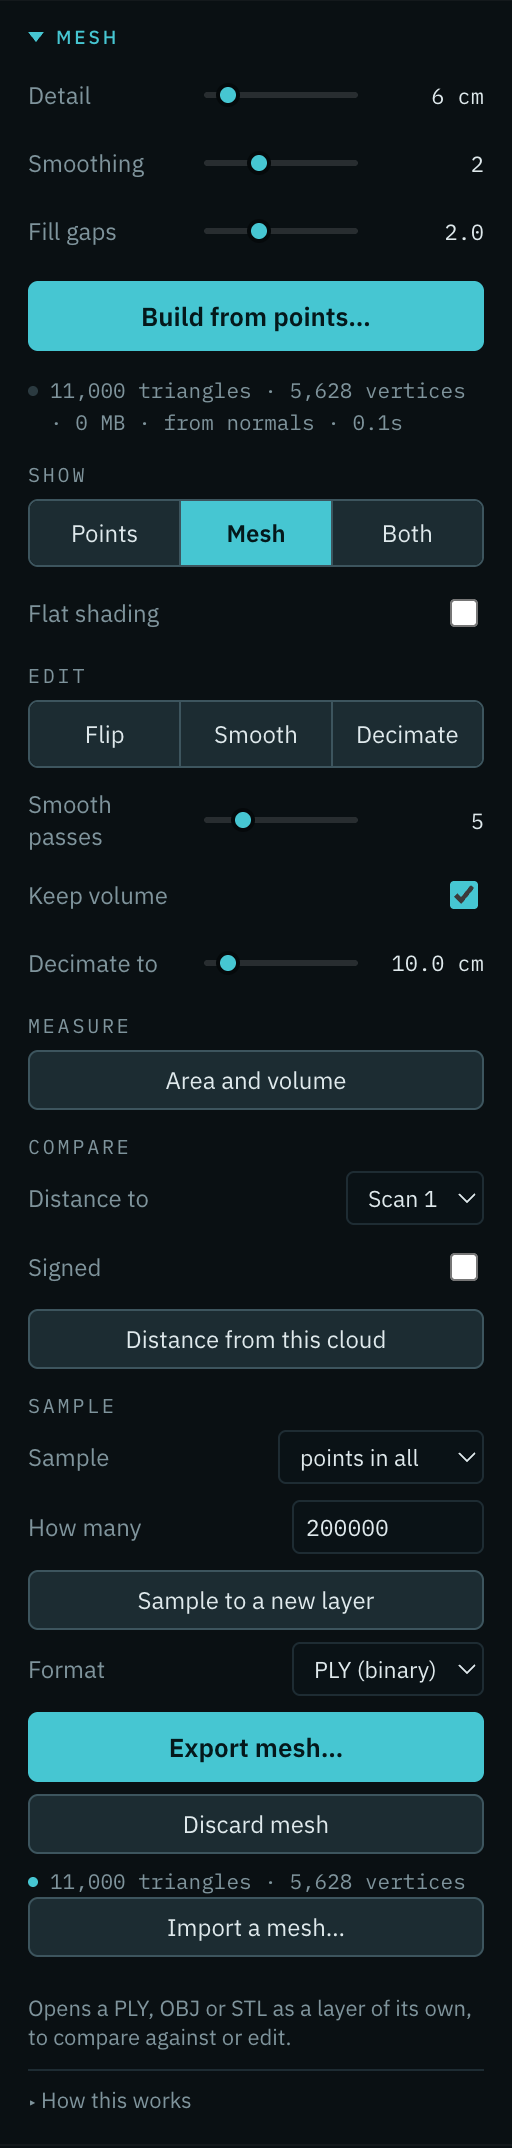
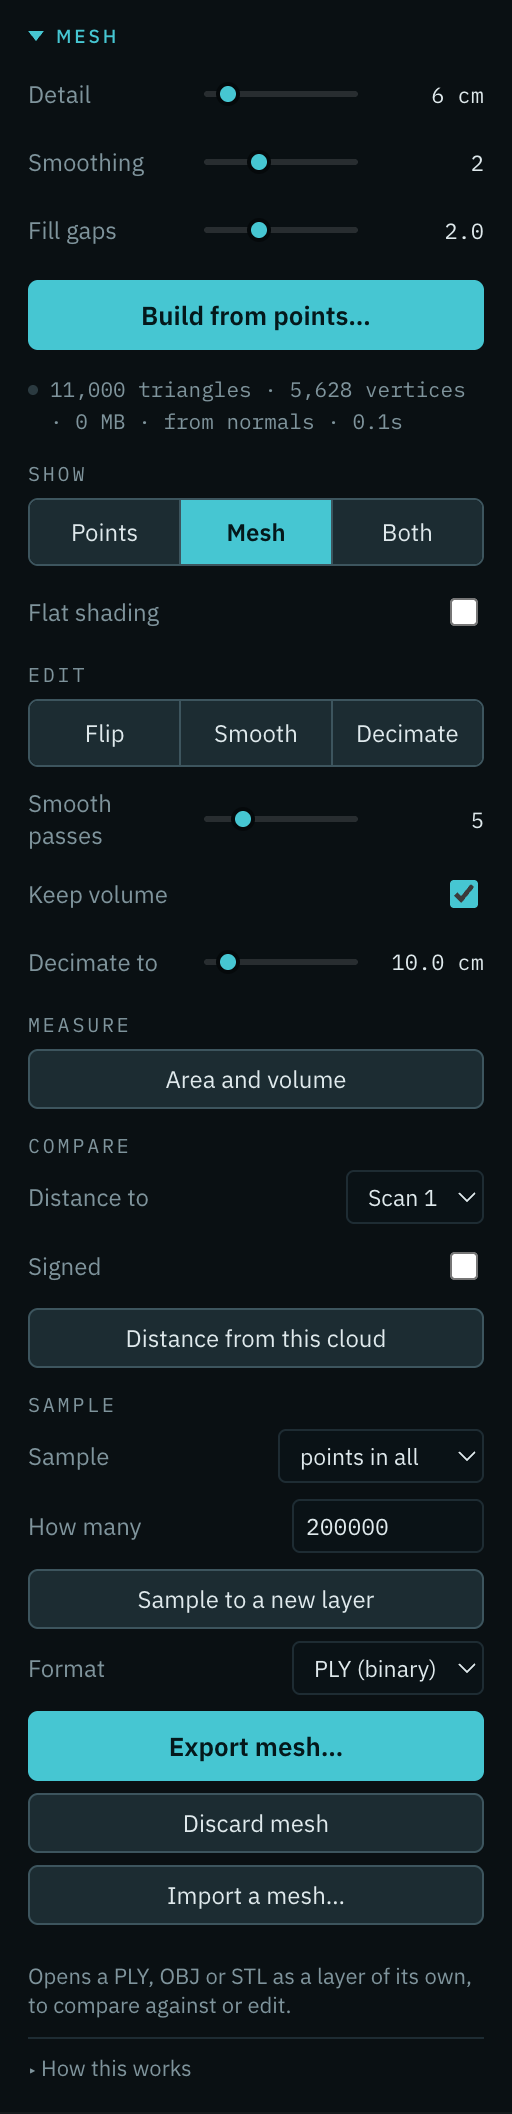
Say the triangle count once
The build result was printed under Build from points and again just above
Import a mesh, a few centimetres apart. Two lines reading as two facts when
there was one.

The upper line owns the build result. The lower one now reports only what is
different: what the last mesh operation did, or where an imported mesh came
from, and it is hidden when it has nothing to say. A build clears it.

Every write to it goes through one meshNote helper, because writing the text
directly left the line hidden with something to say, which is how the first
attempt at this broke.

drive-mesh gained three checks: the build result is on the line under Build,
it is not repeated further down, and a measurement does write that line and
show it.

diff --git a/src/main.ts b/src/main.ts
@@ -2739,7 +2739,7 @@ async function buildMesh(opts: { voxel?: number; smooth?: number; trunc?: number
     const st0 = done.stats;
     viewer.setMesh(meshData, builtWith);
     document.body.classList.toggle('has-mesh', viewer.anyMesh);
-    $('v-meshinfo').textContent = 'no mesh yet';      // so refreshMeshUI rewrites it
+    meshNote('');                                     // the build result is the line above
     refreshMeshUI();
     dirtyMark.surface = done.stats.triangles || 0;
     meshInfo = {
@@ -2766,7 +2766,7 @@ $('k-mclear').addEventListener('click', () => {
   dirtyMark.surface = 0; refreshMeshUI(); renderLayers();
   sfName = ''; dirtyMark.field = ''; sfStats = null; document.body.classList.remove('has-sf', 'sf-filtering');
   ($('k-color-sf') as HTMLOptionElement).disabled = true;
-  setDisplay('points'); $('v-mesh').textContent = '—'; $('v-meshinfo').textContent = 'no mesh yet';
+  setDisplay('points'); $('v-mesh').textContent = '—'; meshNote('');
 });
 
 
@@ -2779,6 +2779,13 @@ $('k-mclear').addEventListener('click', () => {
 let meshFile = '';
 const meshSettings = { iterations: 5, taubin: true, cellCm: 10, sampleMode: 'count' as 'count' | 'density', sampleVal: 200000 };
 
+/** Write the mesh line, and show it. Only `refreshMeshUI` hides it, and only when it has
+ *  nothing to say, so every other writer goes through here or its text never appears. */
+function meshNote(text: string, kind: '' | 'ok' | 'err' = '') {
+  const el = $('v-meshinfo');
+  el.textContent = text;
+  el.className = 'statusline' + (kind ? ' ' + kind : '') + (text.trim() ? '' : ' hidden');
+}
 /** Every layer that has triangles. */
 function meshEntities(): Entity[] { return viewer.entities.filter(e => e.mesh.hasMesh); }
 /** The world matrix the active layer's triangles are drawn through. */
@@ -2797,15 +2804,12 @@ function refreshMeshUI() {
   const have = !!meshData?.idx.length;
   for (const id of ['k-meshmeasure', 'k-meshflip', 'k-meshsmooth', 'k-meshdecim', 'k-meshsample', 'k-meshsave'])
     ($(id) as HTMLButtonElement).disabled = !have;
+  // This line reports the last thing done to a mesh, and where an imported one came from. It
+  // does not repeat the triangle count: that is the build line under Build from points, and
+  // the same numbers twice a few centimetres apart is not two pieces of information.
   const info = $('v-meshinfo');
-  if (!have && !list.length) { info.textContent = 'no mesh yet'; info.className = 'statusline'; }
-  else if (have && /^no mesh yet$/.test(info.textContent ?? '')) {
-    // a mesh has appeared since this line was last written, so say what it is rather than
-    // leaving the placeholder contradicting the controls that just became available
-    const st = meshData!;
-    info.textContent = `${fmt(st.idx.length / 3)} triangles · ${fmt(st.pos.length / 3)} vertices`;
-    info.className = 'statusline ok';
-  }
+  if (!have && !list.length) meshNote('no mesh yet');
+  else if (have && !(info.textContent ?? '').trim()) meshNote(meshFile ? `from ${meshFile}` : '');
 }
 function syncMeshOpLabels() {
   $('v-meshiter').textContent = String(meshSettings.iterations);
@@ -2888,8 +2892,8 @@ async function importMesh(f: File): Promise<Entity | null> {
     afterEntitySwitch();
     viewer.applyZRange(); syncZLabels(); viewer.fit();
     const note = raw.badIndices ? ` · ${fmt(raw.badIndices)} faces dropped for indices past the end` : '';
-    $('v-meshinfo').textContent = `${f.name} · ${fmt(st.triangles)} triangles · ${fmt(st.vertices)} vertices`
-      + ` · ${hadNormals ? 'normals from the file' : 'normals computed'}${d.some(v => Math.abs(v) > 1e-9) ? ` · placed ${d.map(v => v.toFixed(2)).join(', ')} m from ${layerName(viewer.entities[0])}` : ''}${note}`;
+    meshNote(`${f.name} · ${fmt(st.triangles)} triangles · ${fmt(st.vertices)} vertices`
+      + ` · ${hadNormals ? 'normals from the file' : 'normals computed'}${d.some(v => Math.abs(v) > 1e-9) ? ` · placed ${d.map(v => v.toFixed(2)).join(', ')} m from ${layerName(viewer.entities[0])}` : ''}${note}`);
     $('tb-points').textContent = `${fmt(st.triangles)} triangles · ${kind.toUpperCase()}`;
     return e;
   } finally { hideBusy(); }
@@ -2936,16 +2940,16 @@ function measureActiveMesh(): MeshMeasure | null {
   const vol = st.closed
     ? `volume ${st.volume.toFixed(3)} m³`
     : `volume ${st.volume.toFixed(3)} m³ (open: ${fmt(st.boundaryEdges)} boundary edges, so this is only what the divergence sum gives)`;
-  $('v-meshinfo').textContent = `${fmt(st.triangles)} triangles · ${fmt(st.vertices)} vertices · area ${st.area.toFixed(3)} m² · ${vol}`
+  meshNote(`${fmt(st.triangles)} triangles · ${fmt(st.vertices)} vertices · area ${st.area.toFixed(3)} m² · ${vol}`
     + (st.nonManifoldEdges ? ` · ${fmt(st.nonManifoldEdges)} non-manifold edges` : '')
-    + (st.degenerate ? ` · ${fmt(st.degenerate)} zero-area triangles` : '');
+    + (st.degenerate ? ` · ${fmt(st.degenerate)} zero-area triangles` : ''));
   return st;
 }
 $('k-meshmeasure').addEventListener('click', () => measureActiveMesh());
 $('k-meshflip').addEventListener('click', () => {
   if (!meshData?.idx.length) return;
   const st = replaceMesh(flipMesh(meshData));
-  $('v-meshinfo').textContent = `flipped ${fmt(st.triangles)} triangles · the other side is now the front`;
+  meshNote(`flipped ${fmt(st.triangles)} triangles · the other side is now the front`);
 });
 $('k-meshsmooth').addEventListener('click', () => smoothActiveMesh());
 function smoothActiveMesh(opts: { iterations?: number; taubin?: boolean } = {}) {
@@ -2956,8 +2960,8 @@ function smoothActiveMesh(opts: { iterations?: number; taubin?: boolean } = {}) 
   const t0 = performance.now();
   const st = replaceMesh(smoothMesh(meshData, it, 0.5, taubin ? -0.53 : 0));
   const dv = before.volume > 1e-9 ? ((st.volume - before.volume) / before.volume) * 100 : 0;
-  $('v-meshinfo').textContent = `${taubin ? 'Taubin' : 'Laplacian'} × ${it} · area ${before.area.toFixed(3)} → ${st.area.toFixed(3)} m²`
-    + ` · volume ${dv >= 0 ? '+' : ''}${dv.toFixed(2)}% · ${((performance.now() - t0) / 1000).toFixed(1)}s`;
+  meshNote(`${taubin ? 'Taubin' : 'Laplacian'} × ${it} · area ${before.area.toFixed(3)} → ${st.area.toFixed(3)} m²`
+    + ` · volume ${dv >= 0 ? '+' : ''}${dv.toFixed(2)}% · ${((performance.now() - t0) / 1000).toFixed(1)}s`);
   return { ...st, volumeChangePct: dv, iterations: it, taubin };
 }
 $('k-meshdecim').addEventListener('click', () => decimateActiveMesh());
@@ -2969,9 +2973,9 @@ function decimateActiveMesh(opts: { cellCm?: number } = {}) {
   // the cell is given in world centimetres; the vertices live in the layer's local frame
   const scale = viewer.cells.modelScale || 1;
   const st = replaceMesh(decimateMesh(meshData, (cm / 100) / scale));
-  $('v-meshinfo').textContent = `vertex clustering at ${cm.toFixed(1)} cm · ${fmt(before.triangles)} → ${fmt(st.triangles)} triangles`
+  meshNote(`vertex clustering at ${cm.toFixed(1)} cm · ${fmt(before.triangles)} → ${fmt(st.triangles)} triangles`
     + ` (${((st.triangles / Math.max(before.triangles, 1)) * 100).toFixed(1)}%) · area ${before.area.toFixed(3)} → ${st.area.toFixed(3)} m²`
-    + ` · ${((performance.now() - t0) / 1000).toFixed(1)}s`;
+    + ` · ${((performance.now() - t0) / 1000).toFixed(1)}s`);
   return { ...st, before: before.triangles, cellCm: cm };
 }
 
@@ -3031,7 +3035,7 @@ function enqueueWorldPoints(cells: typeof viewer.cells, xyz: Float64Array, rgb: 
   return made;
 }
 
-$('k-meshsample').addEventListener('click', () => sampleMeshPoints().catch(e => { $('v-meshinfo').textContent = 'sampling failed: ' + (e?.message ?? e); }));
+$('k-meshsample').addEventListener('click', () => sampleMeshPoints().catch(e => { meshNote('sampling failed: ' + (e?.message ?? e)); }));
 /** Scatter points over the active layer's triangles into a new point layer. */
 async function sampleMeshPoints(opts: { count?: number; density?: number } = {}) {
   if (!meshData?.idx.length) throw new Error('the active layer has no mesh');
@@ -3057,14 +3061,14 @@ async function sampleMeshPoints(opts: { count?: number; density?: number } = {})
     afterEntitySwitch();
     viewer.applyZRange(); syncZLabels();
     const dens = s.count / Math.max(s.area, 1e-9);
-    $('v-meshinfo').textContent = `sampled ${fmt(s.count)} points over ${s.area.toFixed(3)} m² · ${dens.toFixed(1)} points per m²`
-      + ` · mean spacing ${(Math.sqrt(1 / dens) * 100).toFixed(1)} cm`;
+    meshNote(`sampled ${fmt(s.count)} points over ${s.area.toFixed(3)} m² · ${dens.toFixed(1)} points per m²`
+      + ` · mean spacing ${(Math.sqrt(1 / dens) * 100).toFixed(1)} cm`);
     $('tb-points').textContent = `${fmt(s.count)} pts · sampled from a mesh`;
     return { points: s.count, area: r6(s.area), density: r6(dens), layer: e.id, name: e.name };
   } finally { hideBusy(); }
 }
 
-$('k-meshdist').addEventListener('click', () => distanceToMesh().catch(e => { $('v-meshinfo').textContent = 'distance failed: ' + (e?.message ?? e); }));
+$('k-meshdist').addEventListener('click', () => distanceToMesh().catch(e => { meshNote('distance failed: ' + (e?.message ?? e)); }));
 /** Distance from every point of the active cloud to the nearest triangle of a mesh layer.
  *
  *  Point-to-triangle, not point-to-nearest-vertex: on a coarse mesh those differ by most of a
@@ -3092,9 +3096,9 @@ async function distanceToMesh(opts: { mesh?: string; signed?: boolean } = {}) {
     hideBusy();
     setScalarField(`Distance to ${layerName(target)}`, r.data as Float32Array, r.counts);
     const s = viewer.cells.scalarStats();
-    $('v-meshinfo').textContent = `distance to ${layerName(target)}${signed ? ' (signed)' : ''} · `
+    meshNote(`distance to ${layerName(target)}${signed ? ' (signed)' : ''} · `
       + (s ? `${(s.min * 1000).toFixed(1)} to ${(s.max * 1000).toFixed(1)} mm over ${fmt(s.n)} values` : 'no values')
-      + ` · ${fmt(r.points)} points`;
+      + ` · ${fmt(r.points)} points`);
     return { points: r.points, mesh: target.id, meshName: target.name, signed, stats: s ? { min: r6(s.min), max: r6(s.max), values: s.n } : null };
   } finally { hideBusy(); }
 }
@@ -3112,7 +3116,7 @@ function meshBlob(fmtSel: 'ply' | 'obj' | 'stl'): Blob {
     out[0] = v.x + t[0]; out[1] = v.y + t[1]; out[2] = v.z + t[2];
   })], { type: 'application/octet-stream' });
 }
-$('k-meshsave').addEventListener('click', () => saveMesh().catch(e => { $('v-meshinfo').textContent = 'save failed: ' + (e?.message ?? e); }));
+$('k-meshsave').addEventListener('click', () => saveMesh().catch(e => { meshNote('save failed: ' + (e?.message ?? e)); }));
 async function saveMesh(fmtIn?: 'ply' | 'obj' | 'stl') {
   if (!meshData?.idx.length) throw new Error('the active layer has no mesh');
   const fmtSel = fmtIn ?? ($<HTMLSelectElement>('k-meshfmt').value as 'ply' | 'obj' | 'stl');
@@ -3129,7 +3133,7 @@ async function saveMesh(fmtIn?: 'ply' | 'obj' | 'stl') {
     const file = new File([blob], `${base}.${fmtSel}`);
     await writeOutFile({ file, name: file.name, scratch: '' }, handle);
     dirtyMark.surface = 0; captureActive();
-    $('v-meshinfo').textContent = `saved ${file.name} · ${mb(blob.size)} · ${fmt(meshData.idx.length / 3)} triangles`;
+    meshNote(`saved ${file.name} · ${mb(blob.size)} · ${fmt(meshData.idx.length / 3)} triangles`);
     return { name: file.name, bytes: blob.size, triangles: meshData.idx.length / 3 };
   } finally { hideBusy(); }
 }
